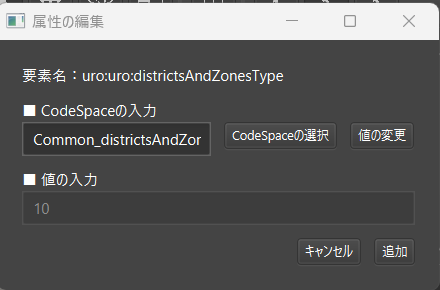
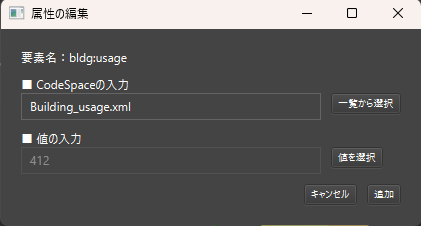
Docs/20250203 (#329)
* 属性操作に関するマニュアルの修正

・スクショの差し替え
・細かな文言修正

* 文言修正

* CSV回りの案内を修正

* 体裁調整

* Update EditAttribute.md

diff --git a/Documentation/manual/EditAttribute.md b/Documentation/manual/EditAttribute.md
@@ -1,17 +1,17 @@
 # 属性情報の編集
 
-このページでは、**地物の属性情報を編集**する際の手順や方法を解説します。操作手順は、大きく以下の2つに分かれます。
+このページでは、**地物の属性情報を編集**する際の手順や方法を解説します。操作手順は、大きく以下の 2 つに分かれます。
 
 1. **ツール上で直接編集**
-2. **CSVファイルを出力・編集してインポート**
+2. **CSV ファイルを出力・編集してインポート**
 
-いずれの方法でも、最終的にCityGMLの属性情報へ反映されます。作業規模やワークフローに合わせて使いやすい方をお選びください。
+いずれの方法でも、最終的に CityGML の属性情報へ反映されます。作業規模やワークフローに合わせて使いやすい方をお選びください。
 
 ---
 
 ## 1. ツール上で直接編集する方法
 
-ヒエラルキー一覧または3Dビュー上で対象の地物を選択すると、画面右（地物情報パネル）にその地物の情報が表示されます。  
+ヒエラルキー一覧または 3D ビュー上で対象の地物を選択すると、画面右（地物情報パネル）にその地物の情報が表示されます。  
 ※複数の地物を一括選択している場合は、**共通する属性のみ**が表示され、追加・編集・削除は選択中の全地物に同時適用されます。
 
 ![image](../resources/HowToUse/feature_info.png)
@@ -21,22 +21,22 @@
 ### 1-1. 個別編集
 
 既存の属性を修正する際は、**値欄をダブルクリック**し、表示されたテキストフィールドで編集します。  
-`uom` や `codeSpace` など、CityGML特有の属性をまとめて編集したいときは、属性を**右クリック → [編集]** で専用の編集画面を開けます。
+`uom` や `codeSpace` など、CityGML 特有の属性をまとめて編集したいときは、属性を**右クリック → [編集]** で専用の編集画面を開けます。
 
-#### CodeTypeの編集
+#### CodeType の編集
 
-CodeType型の属性を編集するときは、以下の画面が表示されます。  
+CodeType 型の属性を編集するときは、以下の画面が表示されます。  
 ![image](../resources/HowToUse/attribute_edit_code.png)
 
-1. **「CodeSpaceの選択」** を押して、一覧からCodeListのXMLファイルを指定する。  
+1. **「一覧から選択」** を押して、一覧から CodeList の XML ファイルを指定する。  
    ![image](../resources/HowToUse/attribute_edit_code2.png)
-2. **「値の変更」** を押して、候補から適切なコード値を選択。  
+2. **「値を選択」** を押して、候補から適切なコード値を選択。  
    ![image](../resources/HowToUse/attribute_edit_code3.png)
 3. **「追加」** ボタンで編集内容を確定。
 
-#### MeasureTypeの編集
+#### MeasureType の編集
 
-MeasureType型の属性編集画面では、`uom` と数値の入力欄があります。  
+MeasureType 型の属性編集画面では、`uom` と数値の入力欄があります。  
 ![image](../resources/HowToUse/attribute_edit_uom.png)
 
 1. `uom` と値を入力
@@ -68,66 +68,72 @@ MeasureType型の属性編集画面では、`uom` と数値の入力欄があり
 
 ---
 
-## 2. CSVを用いて編集する方法
+## 2. CSV を用いて編集する方法
 
-**多数の地物・属性を一括編集**する場合や、Excelなどで一括管理したい場合には、CSVエクスポート/インポートを活用します。
+**多数の地物の属性を一括編集・一括削除**する場合や、Excel などで一括管理したい場合には、CSV エクスポート/インポートを活用します。
 
-### 2-1. CSVのエクスポート
+### 2-1. CSV のエクスポート
 
 画面上部の **「CSV」ボタン → [エクスポート]** を選択し、エクスポート画面を開きます。  
 ![image](../resources/HowToUse/csv_export1.png)
 
-1. **出力先** を指定（デフォルトは CityGMLファイル直下のCSVフォルダ）
-2. **「エクスポート」** ボタンを押すと、地物全体の属性情報がCSVに出力されます。
+1. **出力先** を指定（デフォルトは CityGML ファイル直下の CSV フォルダ）
+2. **「エクスポート」** ボタンを押すと、地物全体の属性情報が CSV に出力されます。
 
 ![image](../resources/HowToUse/csv_export2.png)
 
 ---
 
-### 2-2. エクスポートされたCSVの編集
+### 2-2. エクスポートされた CSV の編集
 
-エクスポート結果のCSVは、任意のテキストエディタやExcelで開いて編集できます。**1行が1地物**、**列が属性**に対応します。
+エクスポート結果の CSV は、任意のテキストエディタや Excel で開いて編集できます。**1 行が 1 地物**、**列が属性**に対応します。
 
-- 全ての地物に対して特定属性を削除したい場合は、該当する列を削除 or 2行目以降を空白化
-- 新たな属性を追加するには、列を新設したうえでヘッダを属性名に合わせる
+-   全ての地物に対して特定属性を削除したい場合は、該当する列を削除 or 2 行目以降を空白化
+-   新たな属性を追加するには、列を新設したうえでヘッダを属性名に合わせる
 
-#### CSVフォーマットのポイント
+#### CSV フォーマットのポイント
 
-1. **gml:id** をキーとした1地物1レコード
-2. **1行目はヘッダ行**、2行目以降がデータ行
-3. 属性名が重複する場合は `_[連番]` が付く
+1. **gml:id** をキーとした 1 地物 1 レコード
+2. **1 行目はヘッダ行**、2 行目以降がデータ行
+3. 属性名が重複する場合は `_[連番]` が付く（※連番は 1 から開始）
 4. 階層構造や `uom` / `codeSpace` は 親名 + `_` + 子名 で表現
 
-| gml:id                              | bldg:measuredHeight | uro:buildingIDAttribute_uro:buildingID | ... |
-|-------------------------------------|---------------------|----------------------------------------|-----|
-| bldg_18c5e09c-9118-4e63-b85e-389814 | 92.3                | 13104-bldg                             | ... |
-| bldg_58a6e11b-7492-ac98-89b7-837487 | 45.7                | （空白）                                   | ... |
+#### 例
+
+| gml:id                              | bldg:measuredHeight | uro:buildingIDAttribute_uro:buildingID | uro:buildingDetailAttribute_1_uro:surveyYear | uro:buildingDetailAttribute_2_uro:districtsAndZonesType | bldg:measuredHeight_uom |
+| ----------------------------------- | ------------------- | -------------------------------------- | -------------------------------------------- | ------------------------------------------------------- | ----------------------- |
+| bldg_18c5e09c-9118-4e63-b85e-389814 | 92.3                | 13104-bldg                             | 2016                                         | 10                                                      | m                       |
+| bldg_58a6e11b-7492-ac98-89b7-837487 | 45.7                | （空白）                               | 2020                                         | 10                                                      | （空白）                |
+
+-   uro:buildingDetailAttribute が 2 つあるため、 uro:buildingDetailAttribute_1,uro:buildingDetailAttribute_2 が存在
+-   uro:buildingIDAttribute_uro:buildingID は、uro:buildingIDAttribute を親とする uro:buildingID を表す属性カラム
+-   bldg:measuredHeight_uom は、measuredHeight の uom を設定するカラム
 
 > [!WARNING]
-> CSV形式が破損すると、インポートエラーが発生する場合があります。ヘッダ行を大きく書き換える際は注意してください。
+> CSV 形式が破損すると、インポートエラーが発生する場合があります。ヘッダ行を大きく書き換える際は注意してください。
 
 ---
 
-### 2-3. CSVのインポート
+### 2-3. CSV のインポート
 
 編集を終えたら、画面上部の **「CSV」ボタン → [インポート]** を選択し、インポート画面を開きます。
 
 ![image](../resources/HowToUse/csv_import1.png)
 
-1. **編集後のCSVファイル** を指定
+1. **編集後の CSV ファイル** を指定
 2. **「インポート」** ボタンを押す
     - 成功すると 「対象の CSV の読み込みが完了しました。」 と表示
     - 不正な行や属性があればエラー文で通知
 
 ![image](../resources/HowToUse/csv_import2.png)
 
-これにより、CSV内で修正した内容が各地物に反映されます。大量の属性変更や削除がある場合に便利です。
+これにより、CSV 内で修正した内容が各地物に反映されます。大量の属性変更や削除がある場合に便利です。
 
 ---
 
 ## 3. まとめ
 
-- **少量の属性編集や確認** → [ツール上で直接編集](#1-ツール上で直接編集する方法)が簡単
-- **一括更新や外部ツール(Excel)での管理** → [CSVを用いた編集](#2-csvを用いて編集する方法)が効率的
+-   **少量の属性編集や確認** → [ツール上で直接編集](#1-ツール上で直接編集する方法)が簡単
+-   **一括更新や外部ツール(Excel)での管理** → [CSV を用いた編集](#2-csvを用いて編集する方法)が効率的
 
-どちらの方法でも同じCityGML属性に反映されるため、使い分けて効率良く管理してください。
+どちらの方法でも同じ CityGML 属性に反映されるため、使い分けて効率良く管理してください。
